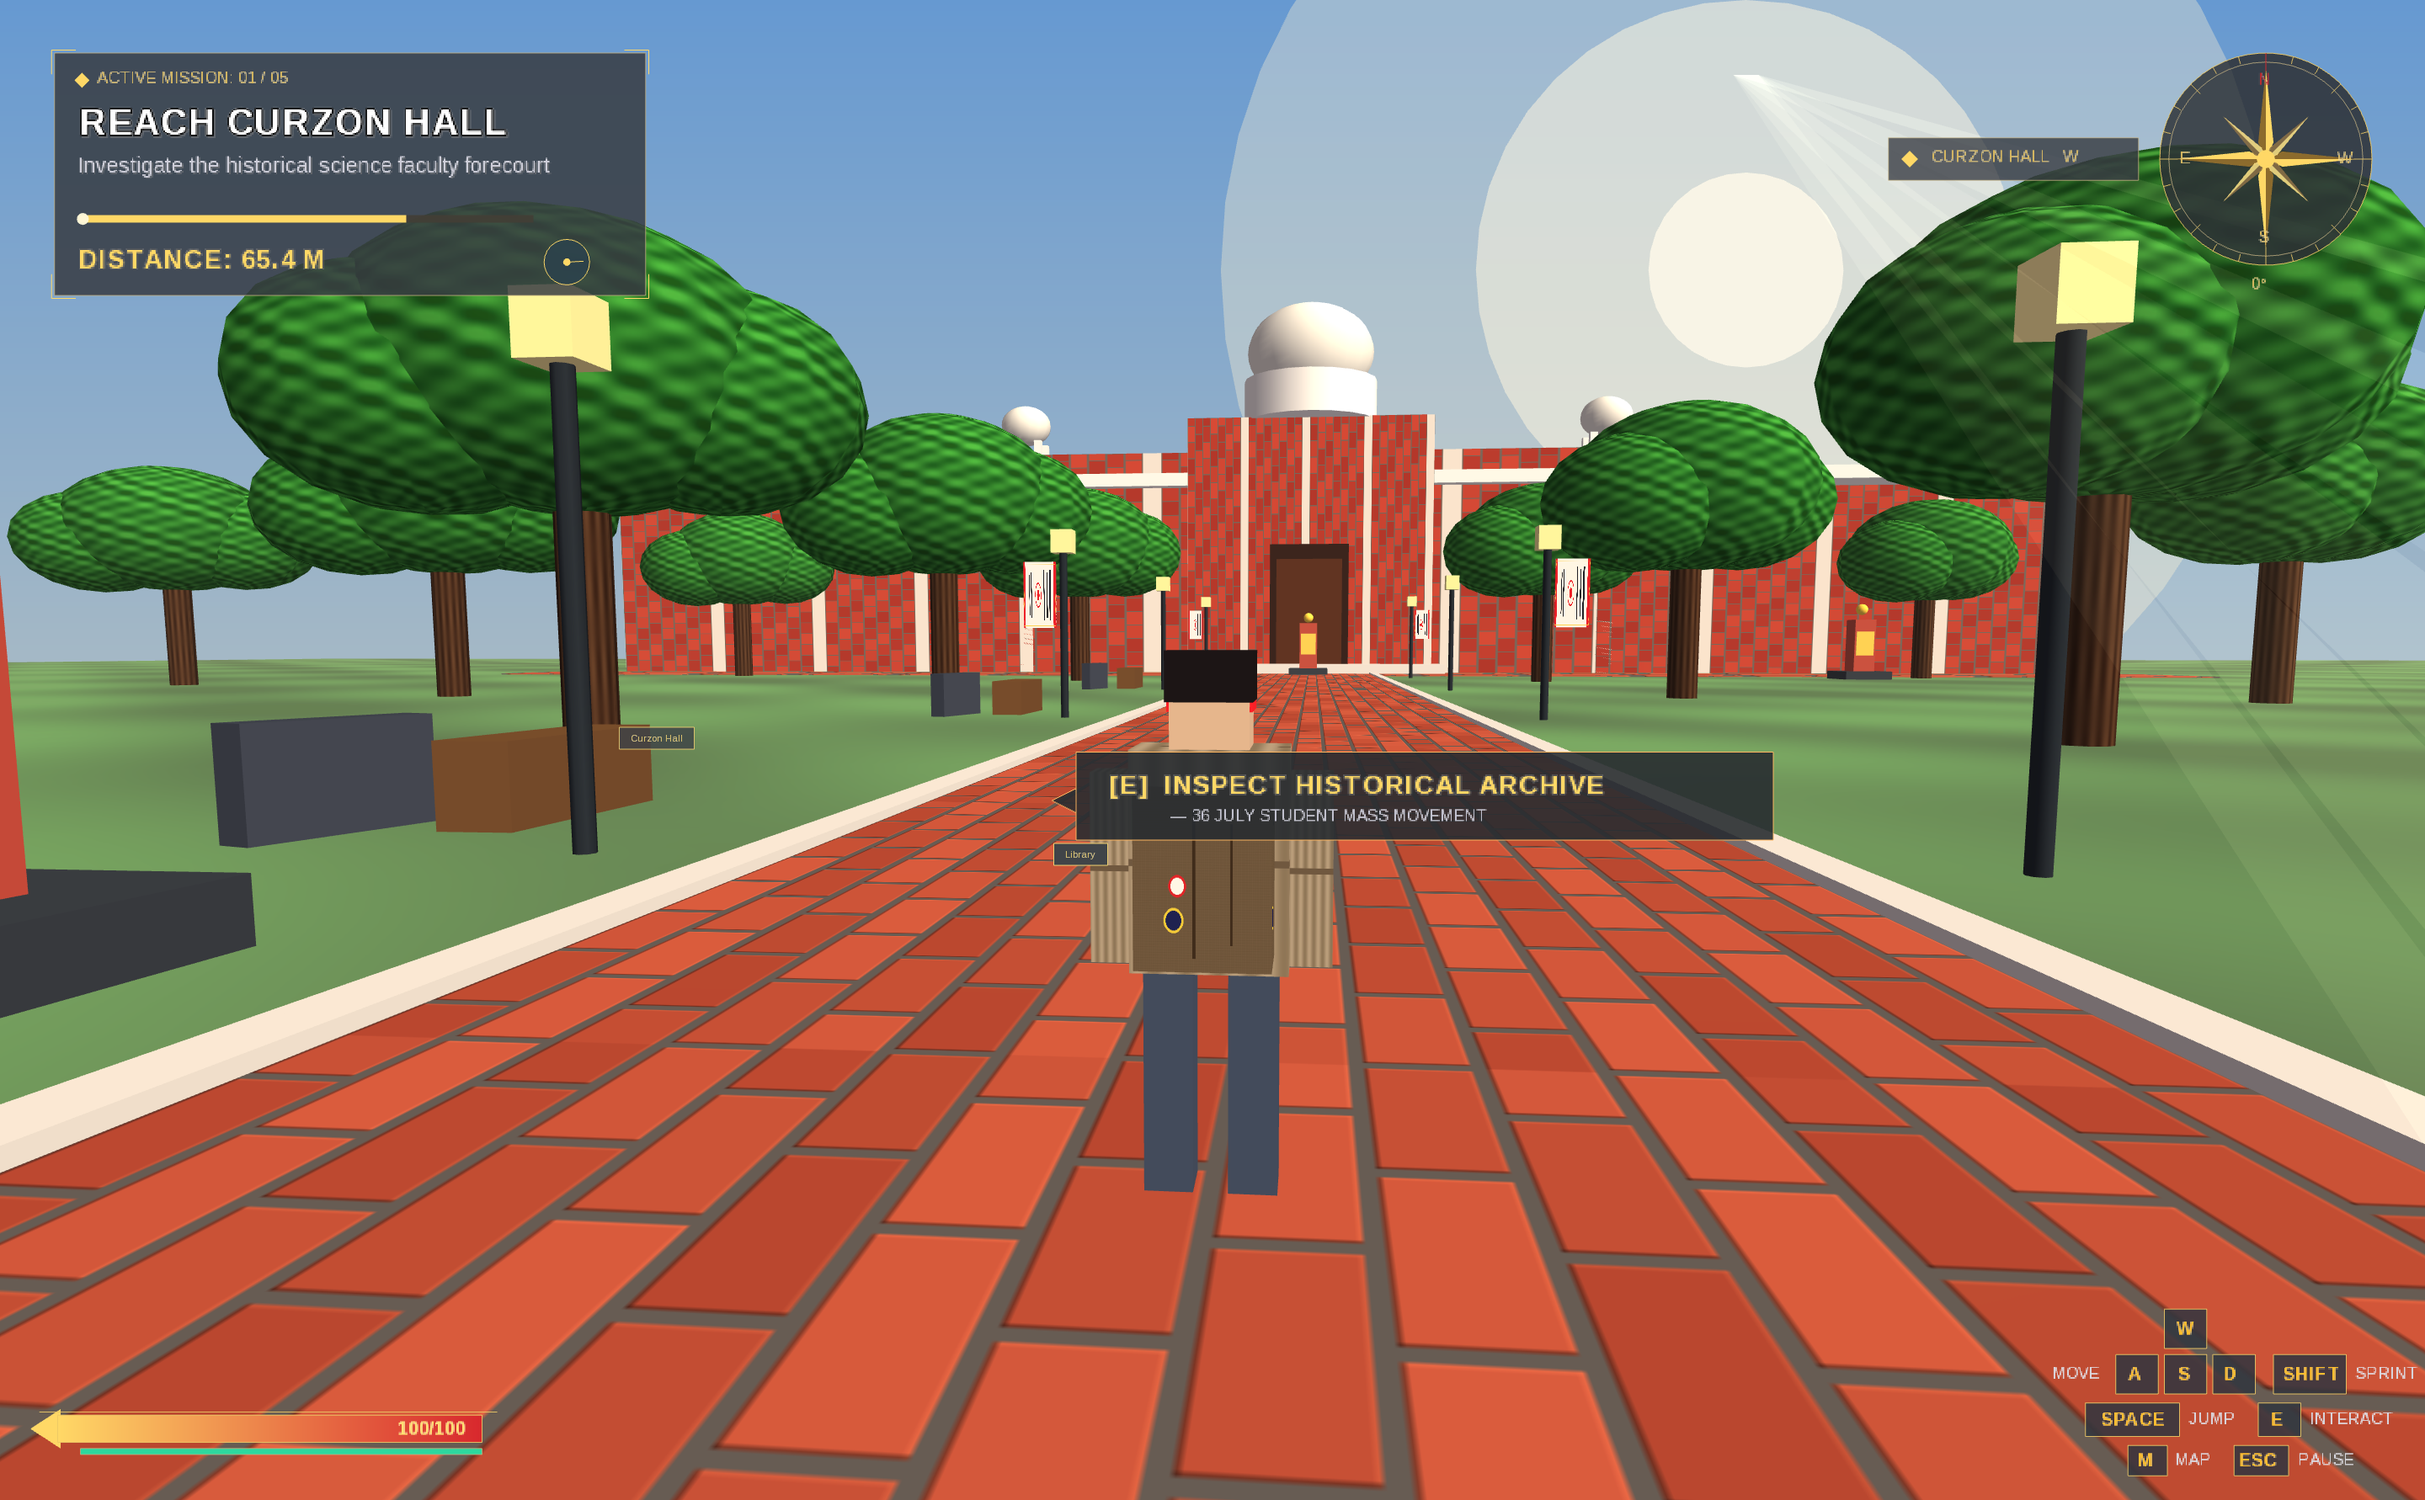
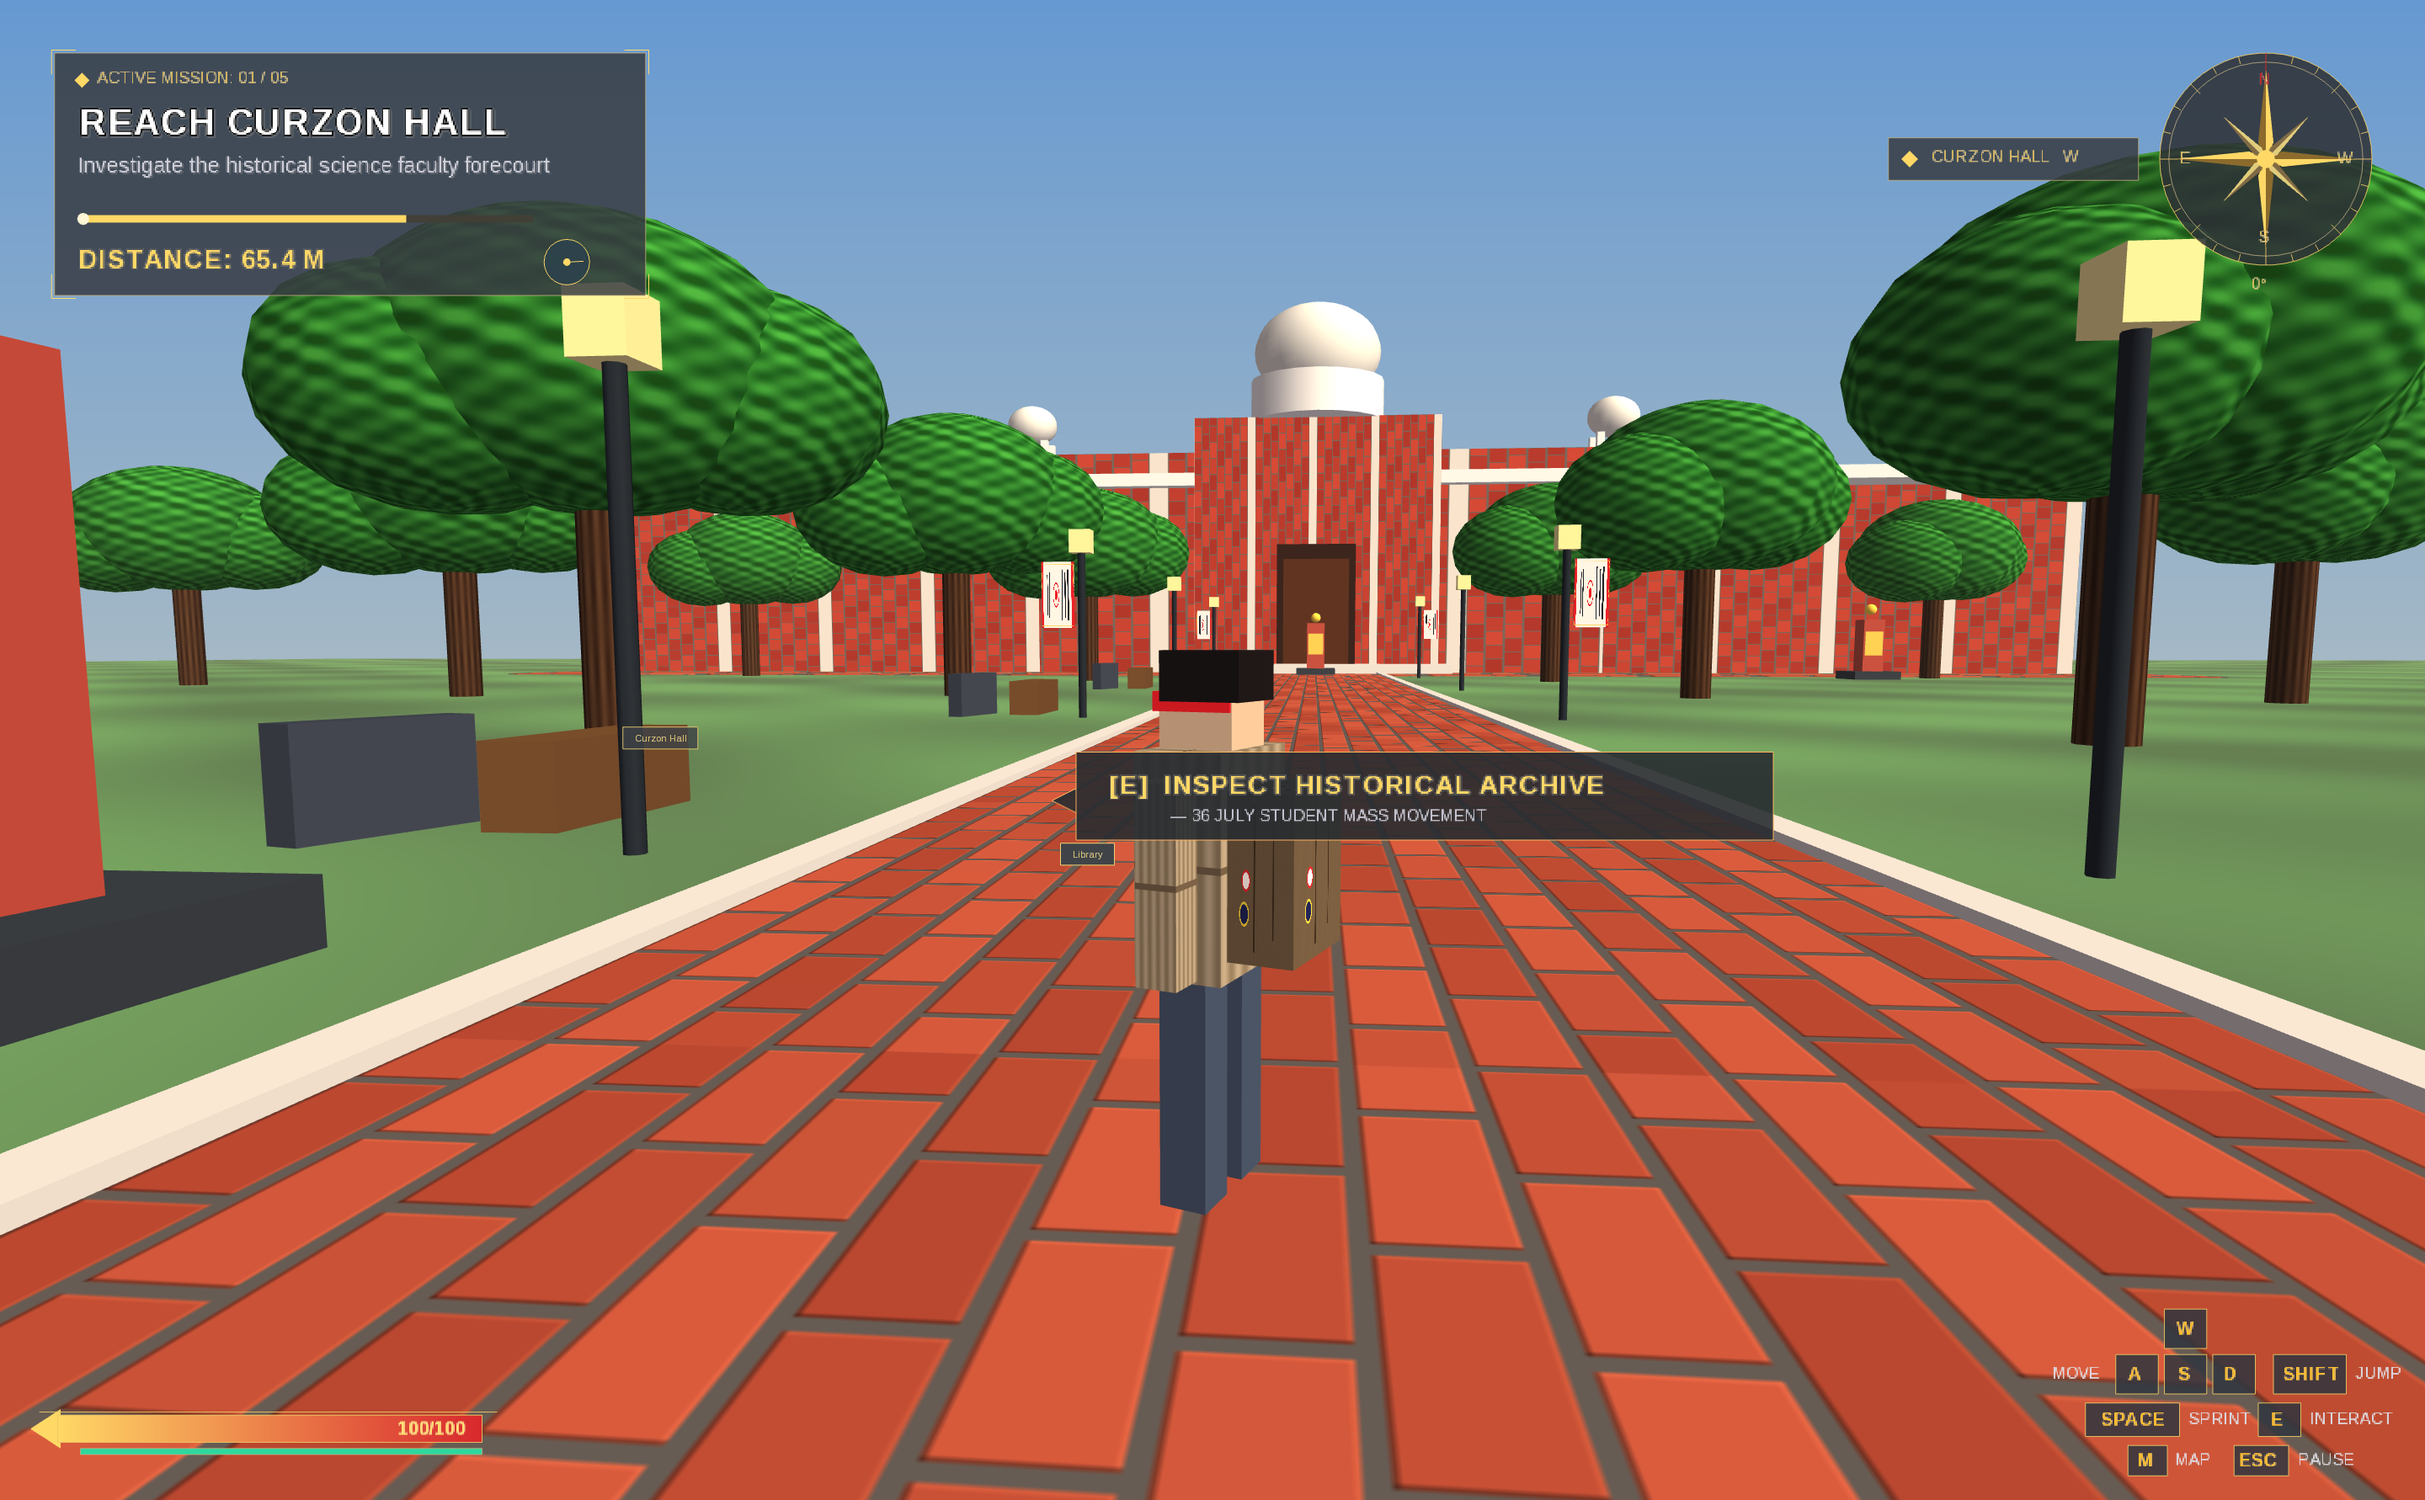
update

diff --git a/core/src/main/java/bd/spark36/SparkGame.java b/core/src/main/java/bd/spark36/SparkGame.java
@@ -138,6 +138,12 @@ public class SparkGame extends ApplicationAdapter {
         int screenW = Gdx.graphics.getBackBufferWidth();
         int screenH = Gdx.graphics.getBackBufferHeight();
 
+        // Automated testing support: auto start gameplay if system property set
+        if ("true".equalsIgnoreCase(System.getProperty("bd.spark36.autoStartGame"))) {
+            startGameplay();
+            return;
+        }
+
         // Handle menu navigation (WASD + Arrow Keys + ENTER/SPACE)
         if (Gdx.input.isKeyJustPressed(Input.Keys.UP) || Gdx.input.isKeyJustPressed(Input.Keys.W)) {
             menuSelection = 0;
